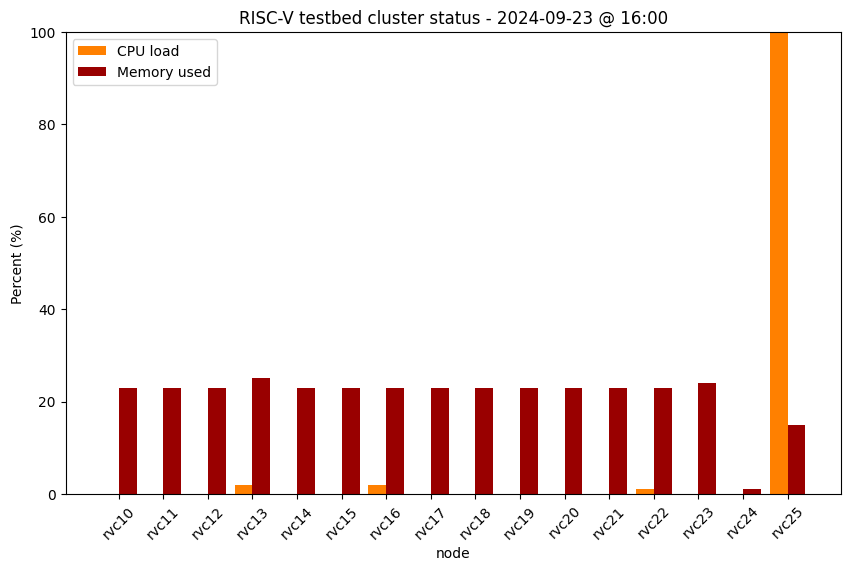
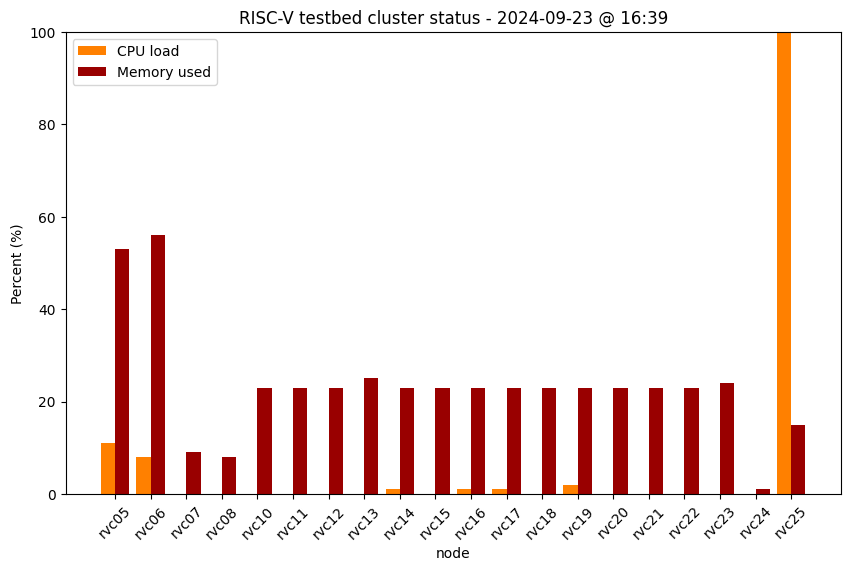
Update cluster status

Changed region(s): [[0.1224, 0.0595, 0.9482, 0.9527], [0.0918, 0.4168, 0.3365, 0.8634], [0.7647, 0.0298, 0.7953, 0.0595]]

diff --git a/status.md b/status.md
@@ -17,10 +17,10 @@ permalink: /status/
 | DongshanNezhaSTU #2 | rvc02 | 1 | 512MB | <img src="/images/amber.png" alt="amber light" width="10"/> offline |
 | DongshanNezhaSTU #3 | rvc03 | 1 | 512MB | <img src="/images/amber.png" alt="amber light" width="10"/> offline |
 | DongshanNezhaSTU #4 | rvc04 | 1 | 512MB | <img src="/images/amber.png" alt="amber light" width="10"/> offline |
-| MangoPi MQ-Pro #1 | rvc05 | 1 | 1GB | <img src="/images/off.png" alt="red light" width="10"/> down |
-| MangoPi MQ-Pro #2 | rvc06 | 1 | 1GB | <img src="/images/off.png" alt="red light" width="10"/> down |
-| StarFive VisionFive V1 #1 | rvc07 | 2 | 8GB | <img src="/images/off.png" alt="red light" width="10"/> down |
-| StarFive VisionFive V1 #2 | rvc08 | 2 | 8GB | <img src="/images/off.png" alt="red light" width="10"/> down |
+| MangoPi MQ-Pro #1 | rvc05 | 1 | 1GB | <img src="/images/on.png" alt="green light" width="10"/> up |
+| MangoPi MQ-Pro #2 | rvc06 | 1 | 1GB | <img src="/images/on.png" alt="green light" width="10"/> up |
+| StarFive VisionFive V1 #1 | rvc07 | 2 | 8GB | <img src="/images/on.png" alt="green light" width="10"/> up |
+| StarFive VisionFive V1 #2 | rvc08 | 2 | 8GB | <img src="/images/on.png" alt="green light" width="10"/> up |
 | StarFive VisionFive V1 #3 | rvc09 | 2 | 8GB | <img src="/images/amber.png" alt="amber light" width="10"/> offline |
 | HiFive Unmatched  | rvc10 | 4 | 16GB | <img src="/images/on.png" alt="green light" width="10"/> up |
 | StarFive VisionFive V2 #1 | rvc11 | 4 | 8GB | <img src="/images/on.png" alt="green light" width="10"/> up |
